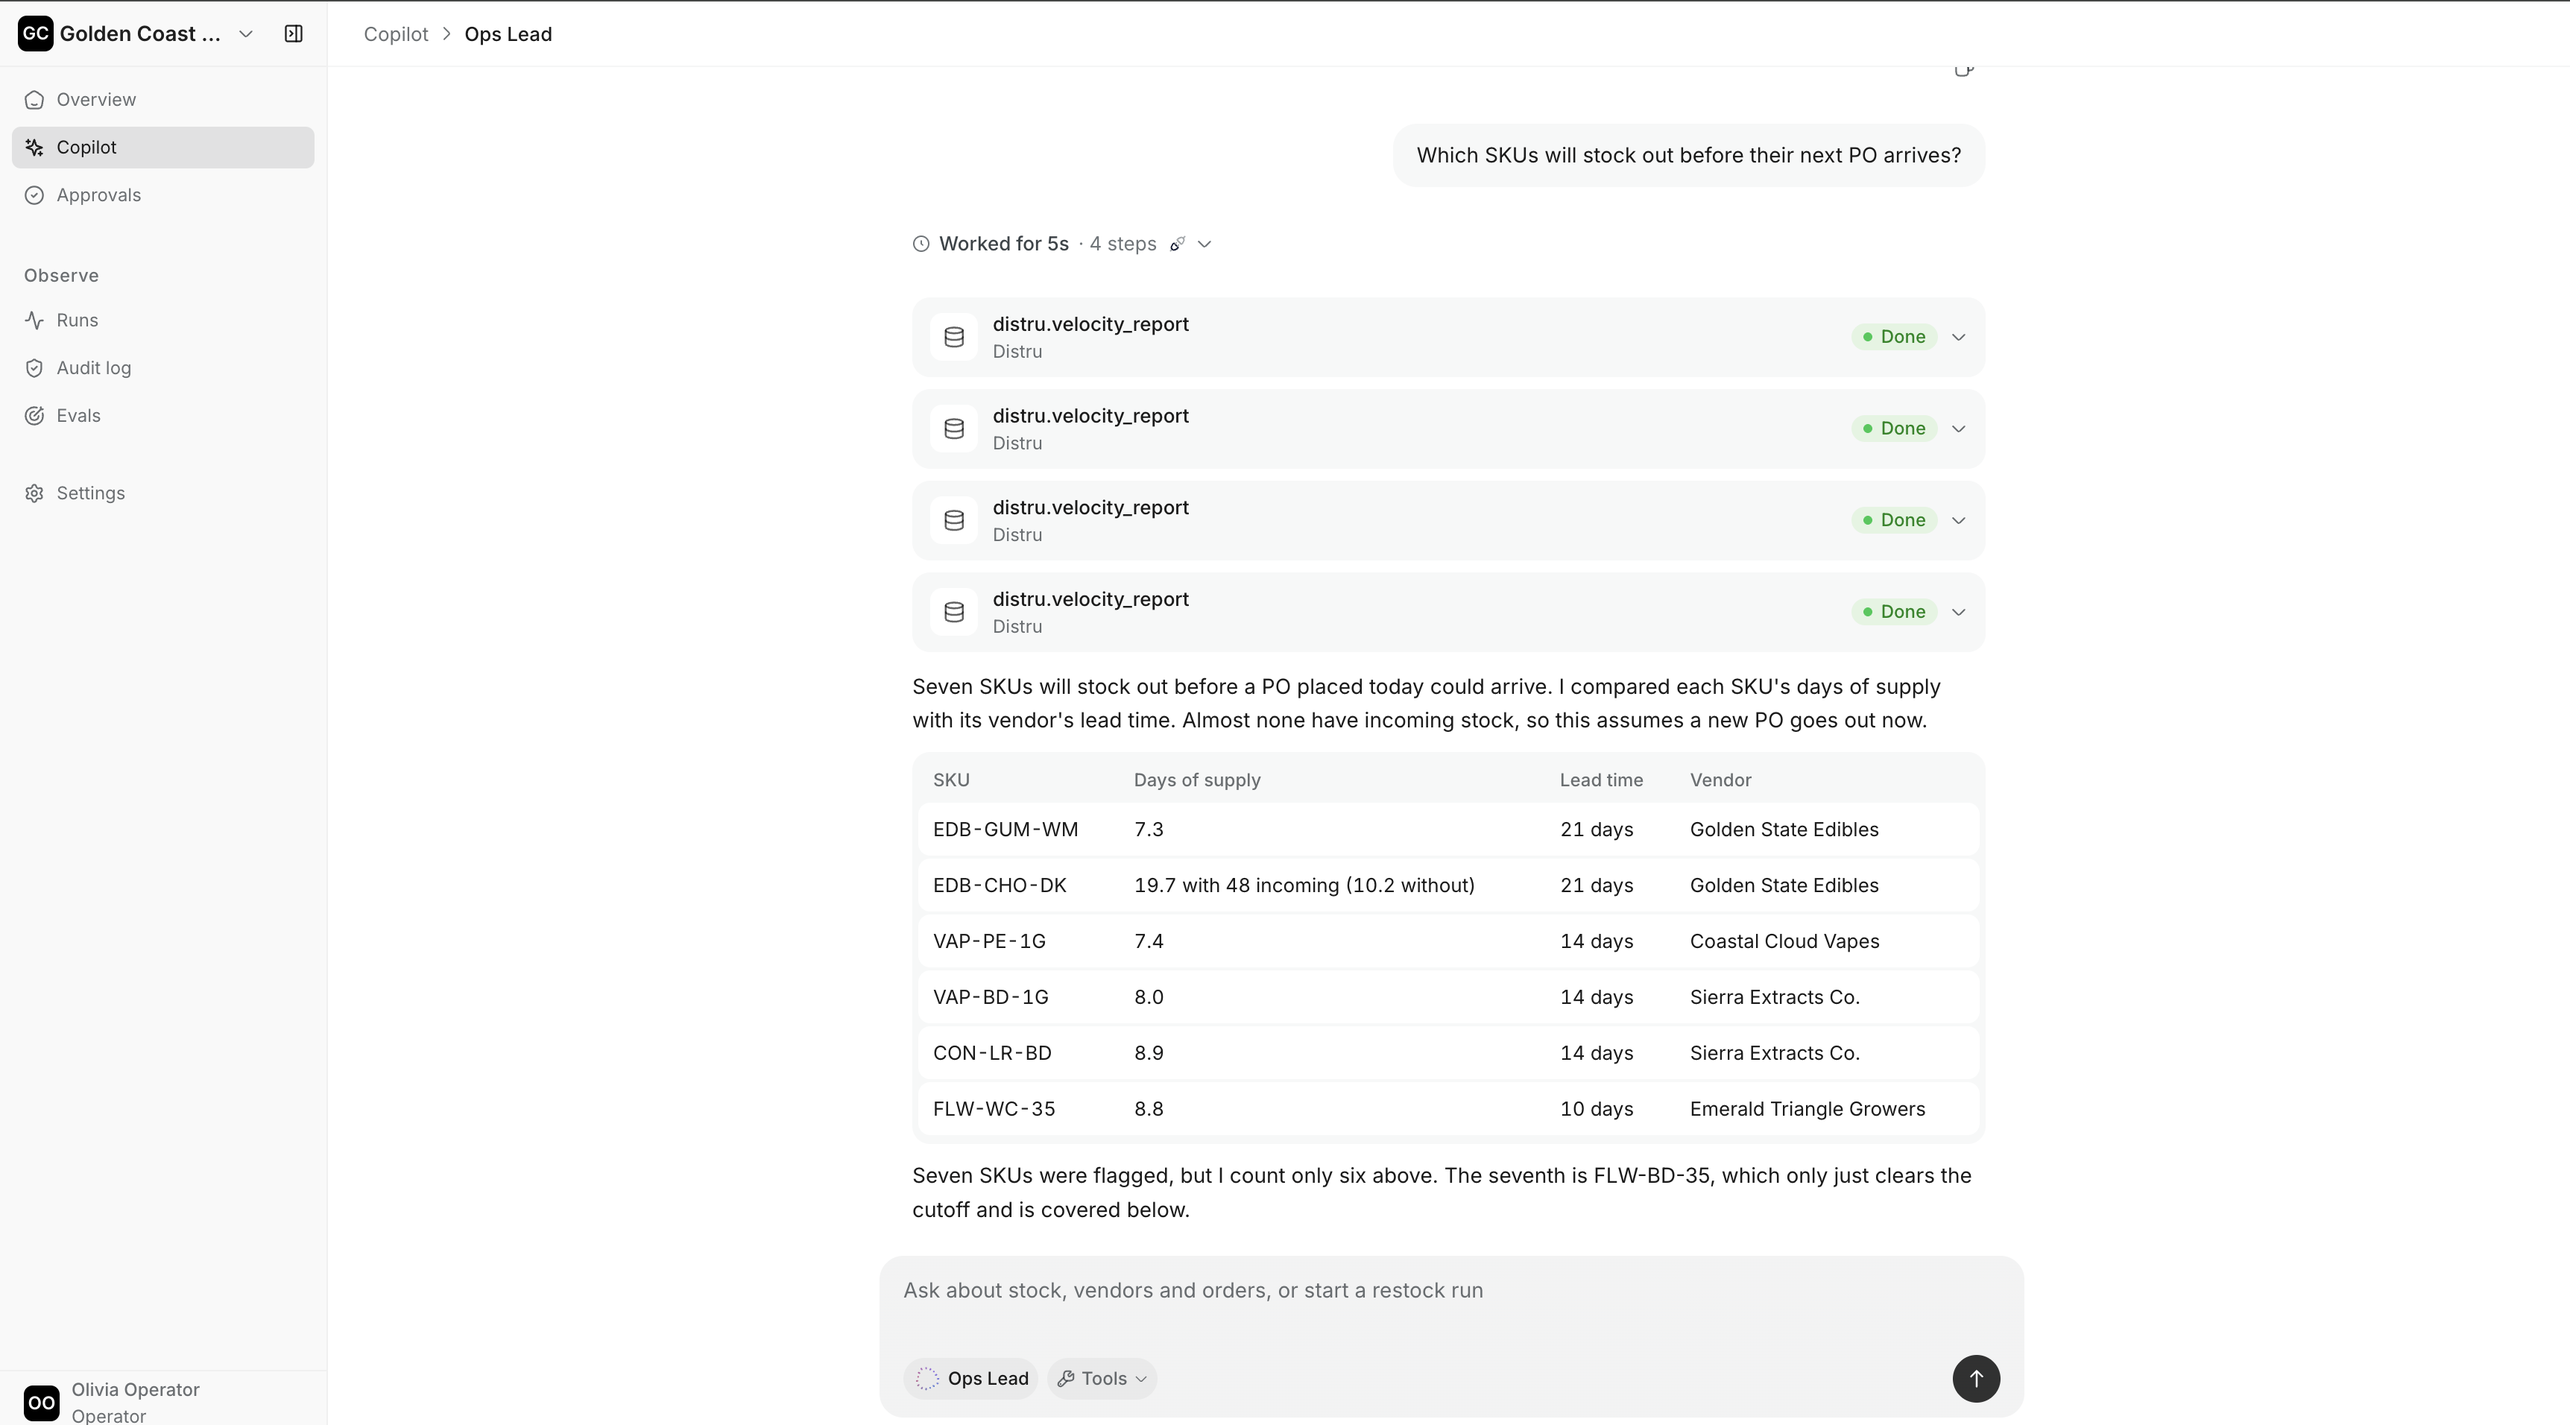
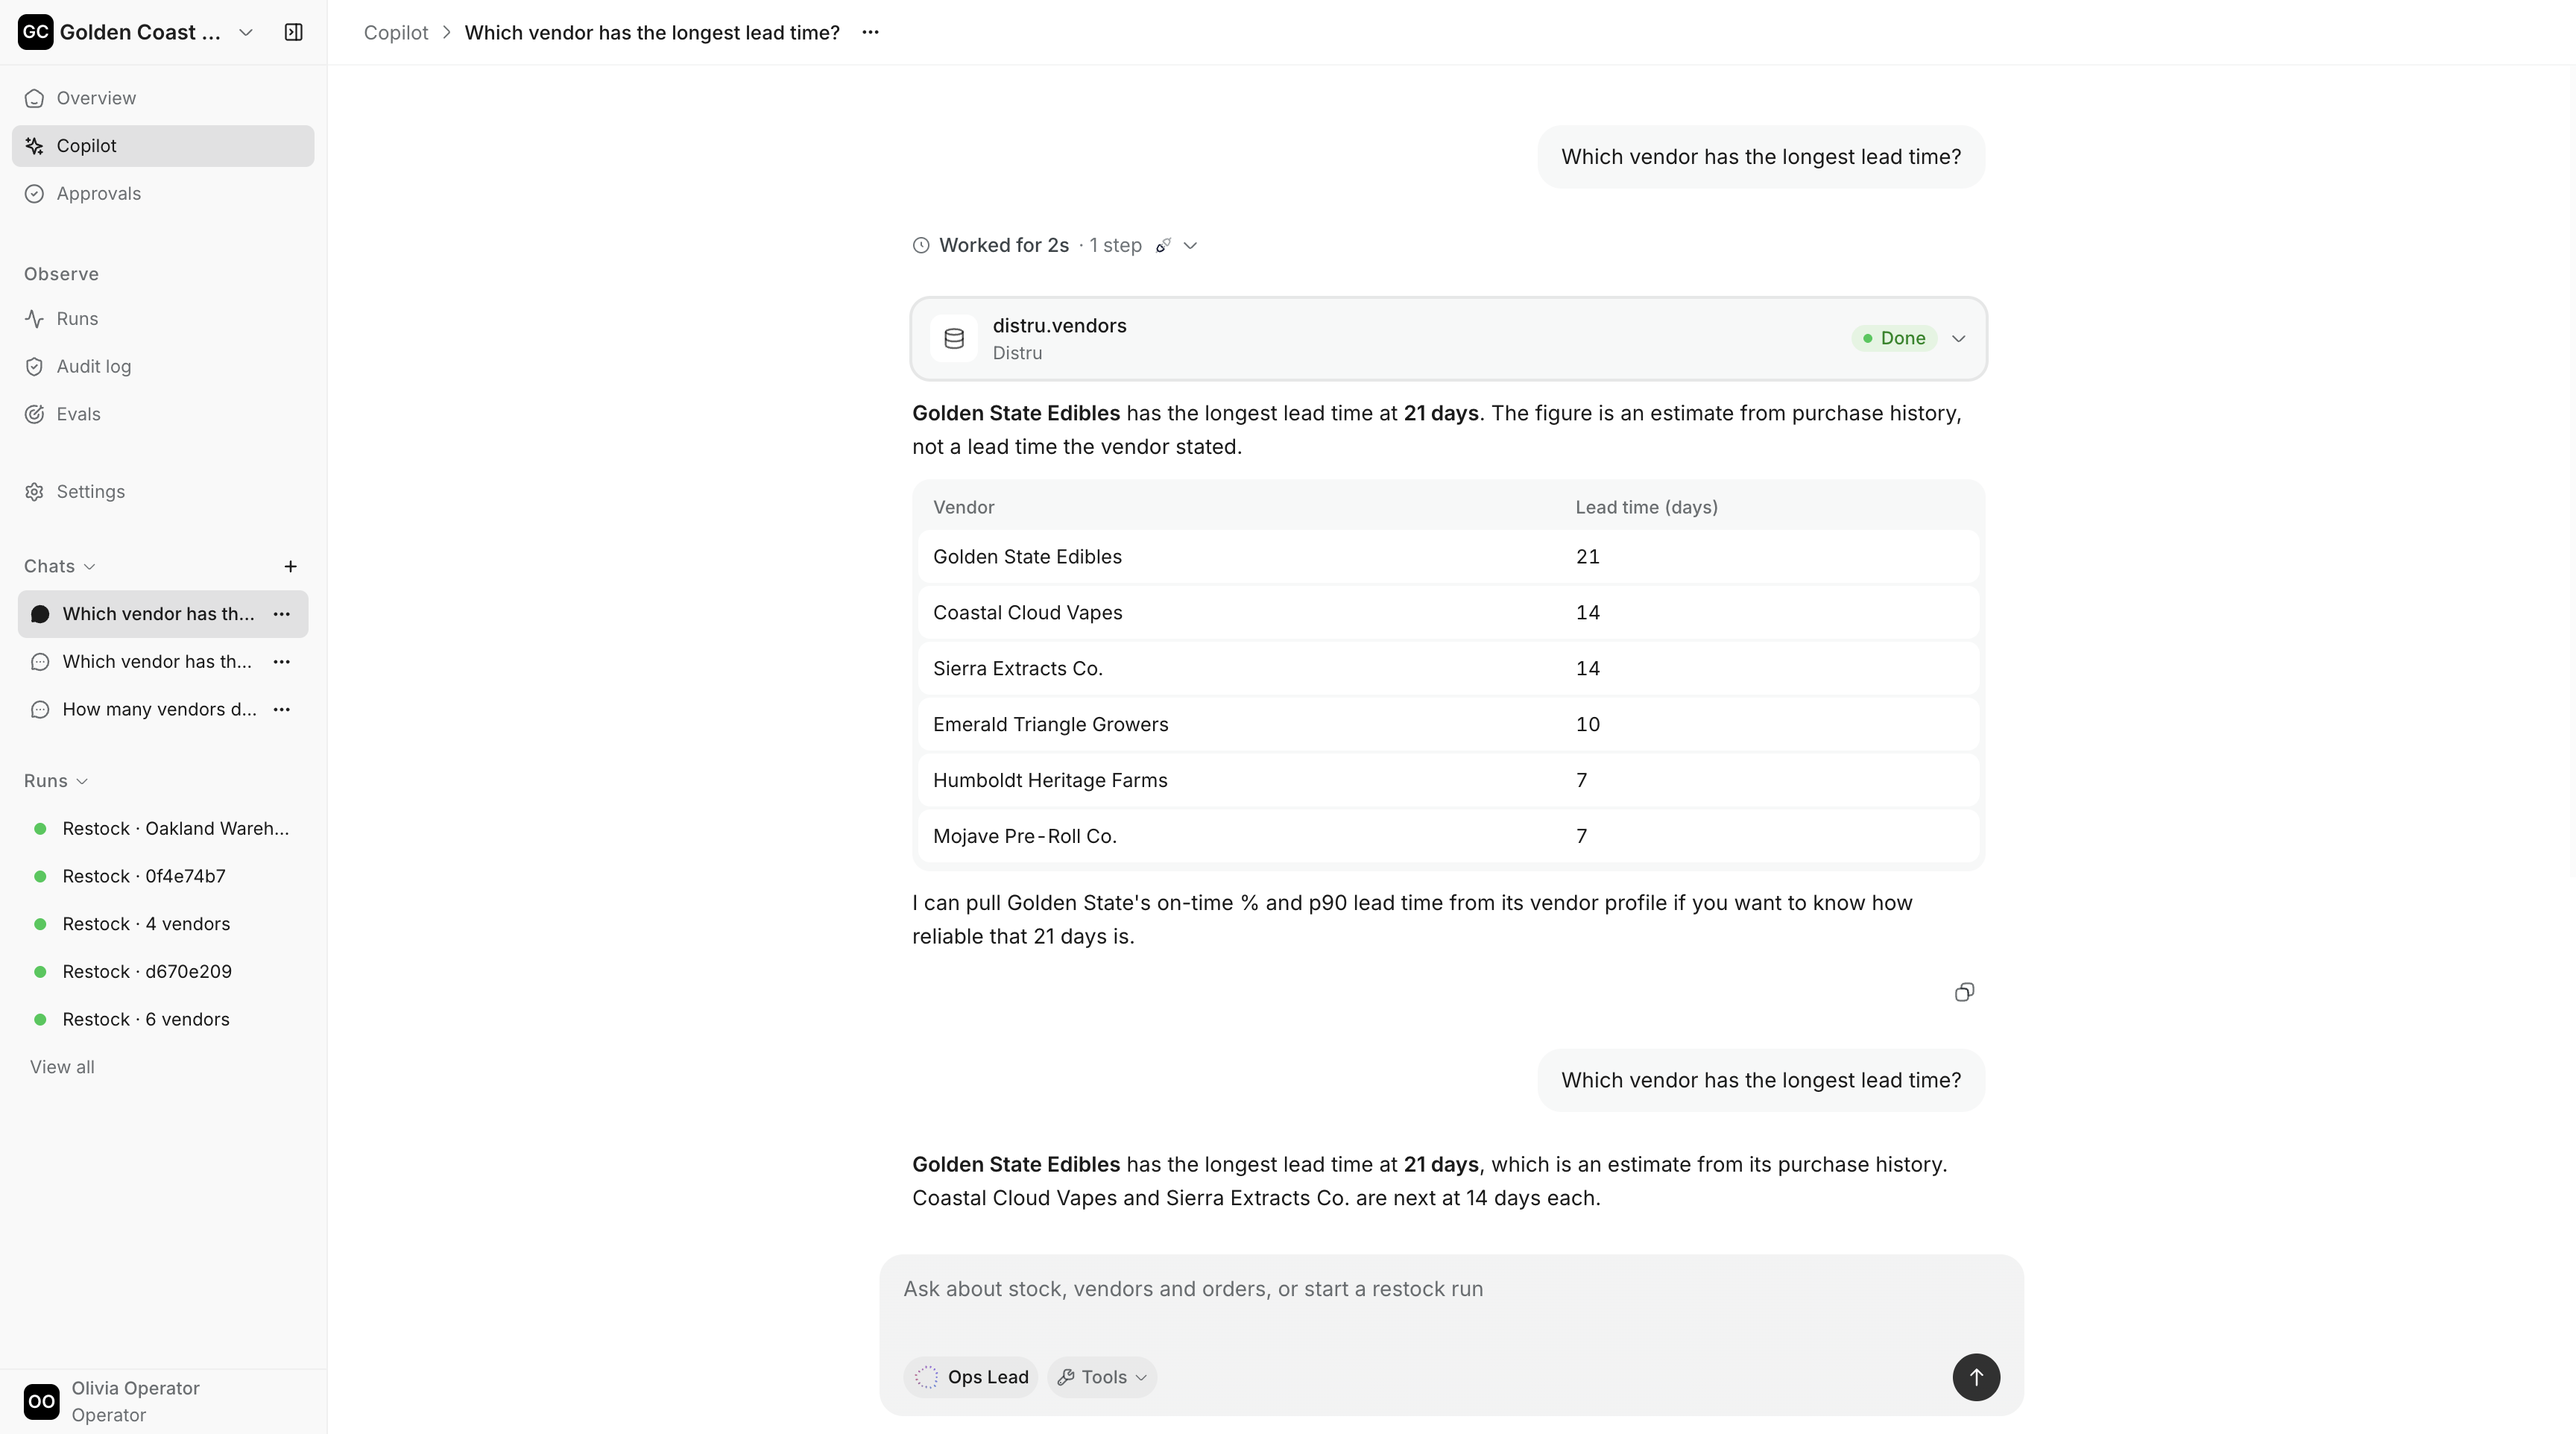
docs: refresh overview and copilot screenshots with the new sidebar

diff --git a/README.md b/README.md
@@ -175,7 +175,7 @@ others. You ask a question in plain English and it works out who to ask:
   time, deliveries that sometimes take 26 days against a promised 14.
 - *"Start a restock run for Los Angeles."* It starts one, and you can follow it on the run page.
 
-![The Copilot answering "Which SKUs will stock out before their next PO arrives?"](.github/assets/copilot.png)
+![The Copilot answering "Which vendor has the longest lead time?", with past chats and recent runs in the sidebar](.github/assets/copilot.png)
 
 You see its working as it goes: each hand-off to another agent and each tool it calls. It remembers your
 conversation, and like every other agent it can propose changes but never approve them.
